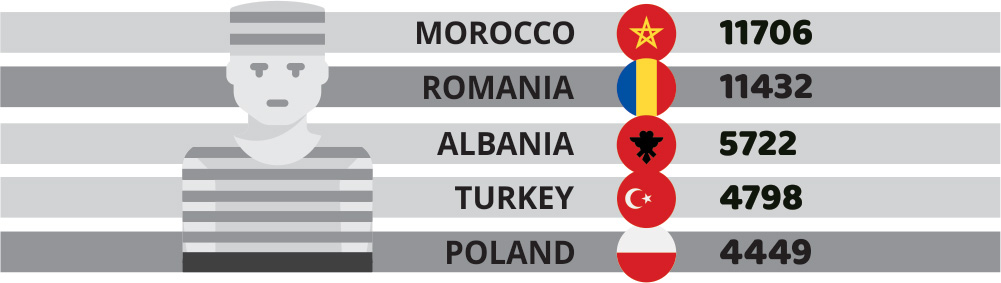
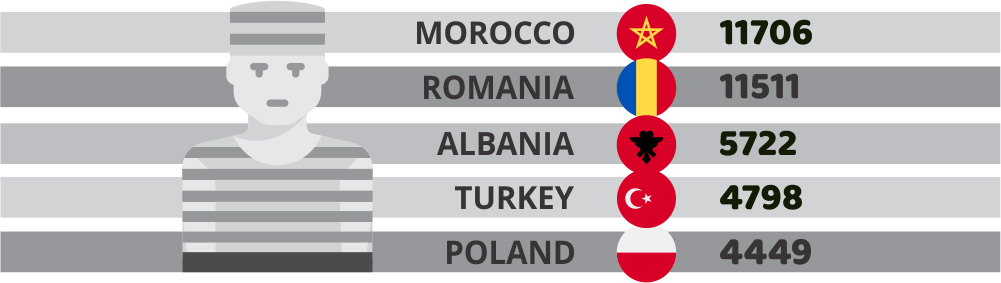
>Added responsive navigation >Added analytics code >Updated links and assets >Clean-up unused CSS rules

Changed region(s): [[0.5884, 0.0, 0.6813, 0.8198], [0.7433, 0.2544, 0.8362, 0.3675], [0.6194, 0.8763, 0.6813, 1.0]]

diff --git a/src/index.html b/src/index.html
@@ -17,9 +17,8 @@
   –––––––––––––––––––––––––––––––––––––––––––––––––– -->
   <meta property="og:url"           content="http://theblacksea.eu/eurocrimes"/>
   <meta property="og:type"          content="website" />
-  <meta property="og:title"         content="EUROCRIMES" />
-  <meta property="og:description"   content="Romania is the European country with the greatest number of its expats in prison in the EU, while Morocco has the highest number of prisoners. An international team of journalists across six nations with data from 25 countries has revealed these stats - and investigated why this is happening." />
-  <meta property="og:image"         content="http://www.your-domain.com/path/image.jpg" />
+  <meta property="og:title"         content="Romania is the European country with the greatest number of its expats in prison in the EU. An international team of journalists across six nations with data from 25 countries has revealed these stats - and investigated why this is happening." />
+  <meta property="og:image"         content="http://theblacksea.eu/eurocrimes/img/fb-img.jpg" />
 
 
   <!-- FONT
@@ -33,11 +32,23 @@
 
   <!-- Favicon
   –––––––––––––––––––––––––––––––––––––––––––––––––– -->
-  <link rel="icon" type="image/png" href="images/favicon.png">
+  <!-- <link rel="icon" type="image/png" href="images/favicon.png"> -->
 
+  <!-- ANALYTICS
+  –––––––––––––––––––––––––––––––––––––––––––––––––– -->
+  <script>
+    (function(i,s,o,g,r,a,m){i['GoogleAnalyticsObject']=r;i[r]=i[r]||function(){
+    (i[r].q=i[r].q||[]).push(arguments)},i[r].l=1*new Date();a=s.createElement(o),
+    m=s.getElementsByTagName(o)[0];a.async=1;a.src=g;m.parentNode.insertBefore(a,m)
+    })(window,document,'script','https://www.google-analytics.com/analytics.js','ga');
+    ga('create', 'UA-86666889-1', 'auto');
+    ga('send', 'pageview');
+  </script>
+  
 </head>
+
 <body>
-  <!-- IMPORT FACEBOOK SDK, JUST TO DISPLAY A FUCKING LIKE BUTTON -->
+  <!-- IMPORT FACEBOOK SDK, JUST TO DISPLAY A LIKE BUTTON -->
   <div id="fb-root"></div>
   <script>(function(d, s, id) {
     var js, fjs = d.getElementsByTagName(s)[0];
@@ -47,9 +58,40 @@
     fjs.parentNode.insertBefore(js, fjs);
   }(document, 'script', 'facebook-jssdk'));</script>
 
-  <!-- Primary Page Layout
+
+  <!-- NAV BAR
+  –––––––––––––––––––––––––––––––––––––––––––––––––– -->
+  <div class="black respNav">  
+    <div id="menuBar">
+      <div class="nine logo  u-pull-left"><a href="http://www.theblacksea.eu">THE BLACK SEA <span class="blue">DIVING DEEP INTO STORIES</span></a>
+      </div>
+      <div class="one mainnav u-pull-right">
+        <a href="http://theblacksea.eu/?idT=86&amp;idC=86" class="menu">Blog</a>
+      </div>
+      <div class="one mainnav u-pull-right">
+        <a href="http://theblacksea.eu/?idT=88&amp;idC=88" class="menu">Stories</a>
+      </div>
+      <div class="one mainnav u-pull-right">
+        <a href="http://theblacksea.eu/?idT=3&amp;idC=3" class="menu">About</a>
+      </div>
+    </div>
+  </div>
+
+
+  <!-- CONTENT CONTAINER
   –––––––––––––––––––––––––––––––––––––––––––––––––– -->
   <div class="container">
+
+
+
+  <!-- FIXED MENU
+    –––––––––––––––––––––––––––––––––––––––––––––––––– -->
+
+
+<!--   <div class="row">
+    <div class="one column">One</div>
+    <div class="eleven columns">Eleven</div>
+  </div> -->
 
 
   <!-- TITLE
@@ -57,24 +99,18 @@
     <div class="row">
       <div class="twelve columns" id="pageHeader">
         <div class="twelve columns" id="pageTitle"><img class="u-max-full-width" src="./img/0-logo.png" alt="EUROCRIMES"></div>
-        <p>Romania is the European country with the greatest number of its expats in prison in the EU, while Morocco has the highest number of prisoners</p>
+        <p>Romania is the European country with the greatest number of its expats in prison in the EU.</p>
         <p>An international team of journalists across six nations with data from 25 countries has revealed these stats - and investigated why this is happening.</p>
         <p class ="lowRes showLow">Some of the data visualizations are not displayed because there is not enough screen space. Try switching to landscape or load this page from another device.</p>
               <div class="row">
         <div class="twelve columns socialMedia">
           <!-- TWITTER SHARE -->
            <a href="https://twitter.com/share" class="twitter-share-button" data-size="small" data-text="Romania is European nation with most expats in prison in EU, Morocco highest in prisoners, estimates reveal" data-url="http://bit.ly/Eurocrimes" data-show-count="false">Tweet</a><script async src="//platform.twitter.com/widgets.js" charset="utf-8"></script>
-          <!-- LINKEDIN SHARE -->
-          <!-- <script src="//platform.linkedin.com/in.js" type="text/javascript"> lang: en_US</script>
-          <script type="IN/Share" data-url="http://bit.ly/Eurocrimes"></script> -->
           <!-- FACEBOOK LIKE & SHARE -->
-          <!-- <iframe src="https://www.facebook.com/plugins/like.php?href=http%3A%2F%2Ftheblacksea.eu%2Feurocrimes%2F&width=200&layout=standard&action=like&size=small&show_faces=false&share=true&height=20" height="20" style="border:none;overflow:hidden" scrolling="no" frameborder="0" allowTransparency="true"></iframe> -->
-          <!-- REDDIT SHARE
-          <script type="text/javascript" src="//www.redditstatic.com/button/button1.js"></script>-->
+          <iframe src="https://www.facebook.com/plugins/like.php?href=http%3A%2F%2Ftheblacksea.eu%2Feurocrimes%2F&width=310&layout=standard&action=like&size=small&show_faces=false&share=true&height=20" width="310" height="20" style="border:none;overflow:hidden" scrolling="no" frameborder="0" allowTransparency="true"></iframe>
         </div>
       </div>
       </div>
-
     </div>
 
 
@@ -84,7 +120,7 @@
   –––––––––––––––––––––––––––––––––––––––––––––––––– -->
     <div class="row card">
       <div class="twelve columns cardTitle">
-        <h2>FOREIGN PRISONERS ACROSS THE EU</h2>
+        <h2>FOREIGN PRISONERS ACROSS THE EU ESTIMATE</h2>
       </div>
       <div class="twelve columns">
         <img src="./img/1-top-5-countries.jpg" alt="Top Nationalities Imprisoned in EU" class="u-max-full-width">
@@ -98,7 +134,7 @@
   –––––––––––––––––––––––––––––––––––––––––––––––––– -->
     <div class="row card hideLow">
       <div class="twelve column cardTitle removeBelow">
-        <h2 class="">EU EXPATS IMPRISONED
+        <h2 class="">EU EXPATS IMPRISONED ESTIMATE
         <img class=".u-pull-right" src="img/interact.png" alt="Interact" width="25" height="30">
         </h2>
       </div>
@@ -122,12 +158,12 @@
       <div class="twelve columns removeAbove"><img class="u-max-full-width" src="./img/2-highlight-11400.jpg" alt="11400 Romanians in EU jails">
       </div>
       <div class="twelve columns" >
-        <p>Around 11400 Romanians were in jails in EU member states in 2015 (France: 2014), according to data requested from 25 member states</p>
+        <p>Around 11500 Romanians were in jails in EU member states in 2015 (France: 2014), according to data requested from 25 member states</p>
         <p>This is journalistic, not academic research, and is an estimate of the real number, because many countries have different reporting strategies. For an in-depth look into the methodology, <a href="http://www.theblacksea.eu/index.php?idT=86&idC=96&idRec=1237&recType=story" target="_blank">click here</a>.</p>
       </div>
       <div class="twelve columns"><img class="u-max-full-width center" src="img/3-ro-imprisoned-abroad-home.jpg" alt="Romanian prisoners home & abroad"></div>
       <div class="twelve columns">
-        <p>There were 28334 Romanians in Prison in Romania and around 11400 in the EU. The crime rate is around three times higher (0.39 per cent) for Romanians abroad than Romanians at home (0.13 per cent)</p>
+        <p>There were 28334 Romanians in Prison in Romania and around 11500 in the EU. The crime rate is around three times higher (0.39 per cent) for Romanians abroad than Romanians at home (0.13 per cent)</p>
       </div>
     </div>
 
@@ -246,11 +282,11 @@
   –––––––––––––––––––––––––––––––––––––––––––––––––– -->
     <div class="row card">
       <div class="twelve columns cardTitle">
-        <h2 class="removeBelow">EU JAIL POPULATION OVERVIEW
+        <h2 class="removeBelow">EU PRISON TOTAL DOMINATED BY LOCALS
         <img class=".u-pull-right" src="img/interact.png" alt="Interact" width="25" height="30">
         </h2>
       </div>
-      <div class="twelve columns removeAbove"><img class="u-max-full-width" src="img/7-11-la-suta.jpg" alt="11%"></div>
+      <div class="twelve columns removeAbove"><img class="u-max-full-width" src="img/7-11-la-suta.png" alt="11%"></div>
       <div class="row twelve">
         <p>EU expat prisoners count for around 33,600 or 5% of the total prisoners in the EU - so remain a minority.</p>
         <p>This is data from 2014 against our data on Romania from 2015, taking into account our variables. So this is only a broad estimate.</p>
@@ -259,9 +295,9 @@
         <div id="jailPop"></div>
       </div> 
       <div class="twelve">
-        <p>The size of the prison population across the 27 states that have been or became EU members has remained almost static between 2002 and 2014. This oscillated between 60,000 and 65,000 for every year, according to Council of Europe figures</p>
+        <p>The size of the prison population across the 28 states that have been or became EU members has remained almost static between 2002 and 2014. This oscillated between 600,000 and 650,000 for every year, according to Council of Europe figures</p>
         <p>This reveals that changes in the migrant population across the EU in the last 14 years have not led to an increase in convictions</p>
-        <p class="quote">“There are so many different forms of immigration and waves of people who migrate and under different circumstances and how well received they are in society or how prepared that society is, so it’s impossible to say whether this leads to less or more crime. We have to look at circumstances and different conditions in which immigration is taking place. It can lead to both outcomes.” Cristian Walburg, doctor in Criminal Science at Westphalian Wilhelm University, Munster.</p>
+        <p class="quote">“There are so many different forms of immigration and waves of people who migrate and under different circumstances and how well received they are in society or how prepared that society is, so it’s impossible to say whether this leads to less or more crime. We have to look at circumstances and different conditions in which immigration is taking place. It can lead to both outcomes.” Christian Walburg, doctor in Criminal Science at Westphalian Wilhelm University, Munster.</p>
       </div>
     </div>
 
@@ -279,20 +315,20 @@
         <p>From on the ground reportage in Italy, Spain, Romania, Germany, Lithuania and the UK, we present features about victims of human trafficking and drug addiction, interviews with begging gangs, thieves, career criminals, police officers, criminologists, charity workers and mafia experts, who have helped us wrestle with the problems and the solutions.</p>
       </div>
       <div class="row twelve columns">
-        <a href="#"><div class="four columns moreBit">
+        <a href="http://theblacksea.eu/index.php?idT=88&idC=88&idRec=1238&recType=story"><div class="four columns moreBit">
           <img src="img/thumbs1.jpg" class="u-max-full-width">
           <h6>“It is so painful to know we are victims”</h6>
           <p>Trafficked girls from Romania to Spain reveal path from tragedy to recovery</p>
         </div></a>
-        <a href="#"><div class="four columns moreBit">
+        <a href="http://theblacksea.eu/index.php?idT=88&idC=88&idRec=1239&recType=story"><div class="four columns moreBit">
           <img src="img/thumbs2.jpg" class="u-max-full-width">
-          <h6>Anarchist paradise</h6>
-          <p>The Roma families squatting in the Italian contemporary art museum</p>
+          <h6>The EU doesn’t really know what Lithuanians are</h6>
+          <p>Why is the Baltic state the EU nation with the highest percentage of expats in jail?</p>
         </div></a>
-        <a href="#"><div class="four columns moreBit">
-          <a href="#"><img src="img/thumbs3.jpg" class="u-max-full-width">
-          <h6>Abuse at Europe’s top transport hub</h6>
-          <p>Kid beggars turn to prostitution in Rome’s Termini station</p>
+        <a href="http://www.theblacksea.eu/index.php?idT=88&idC=88&idRec=1240&recType=story"><div class="four columns moreBit">
+          <img src="img/thumbs3.jpg" class="u-max-full-width">
+          <h6>Expat Romanians: their own worst enemy</h6>
+          <p>How Romania topped prisoner numbers in Italy - and how this is changing</p>
         </div></a>
       </div>
     </div>
